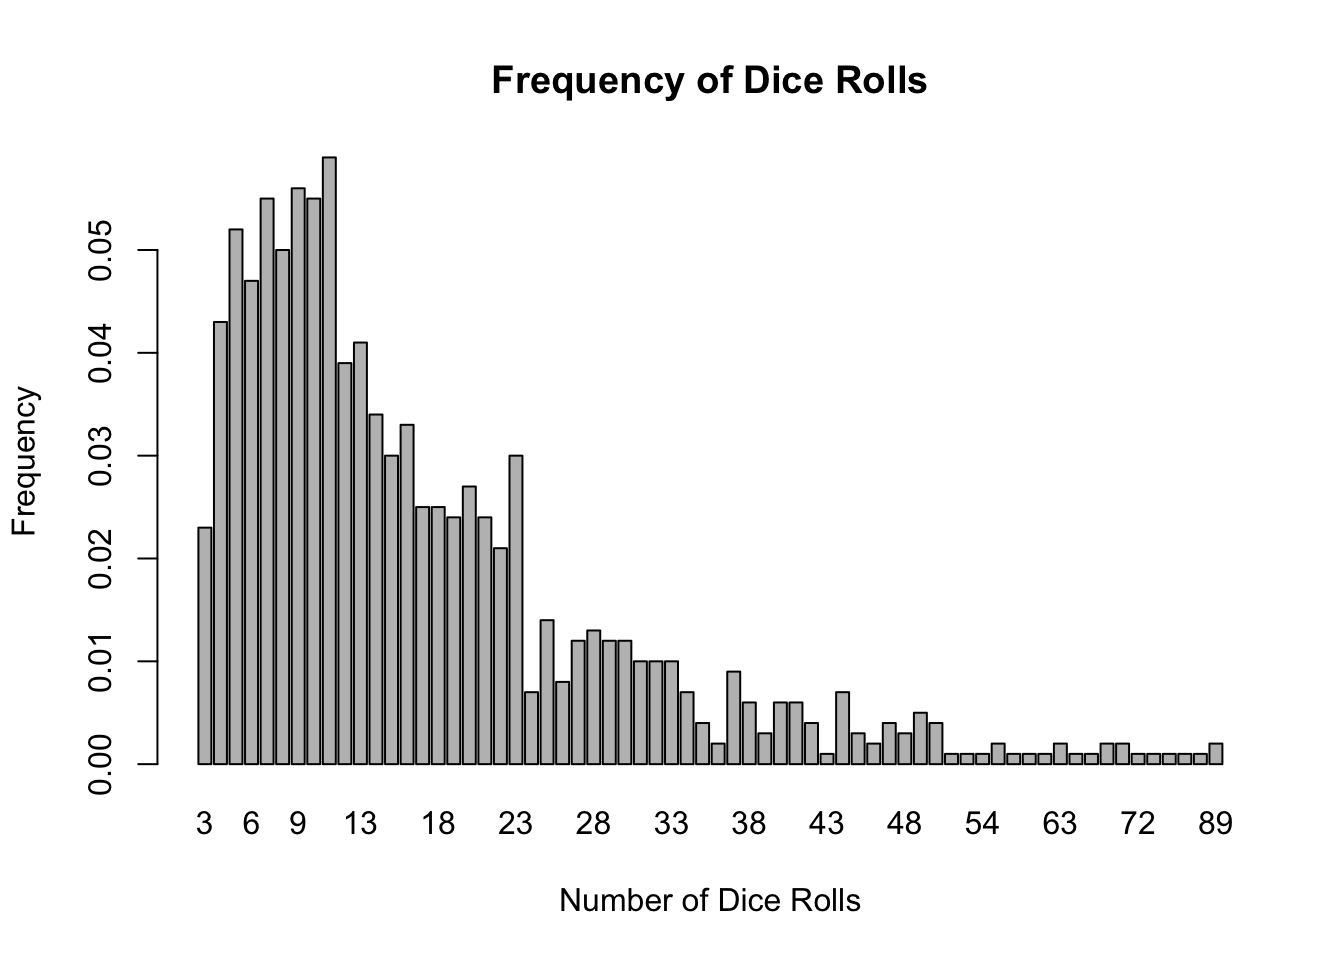
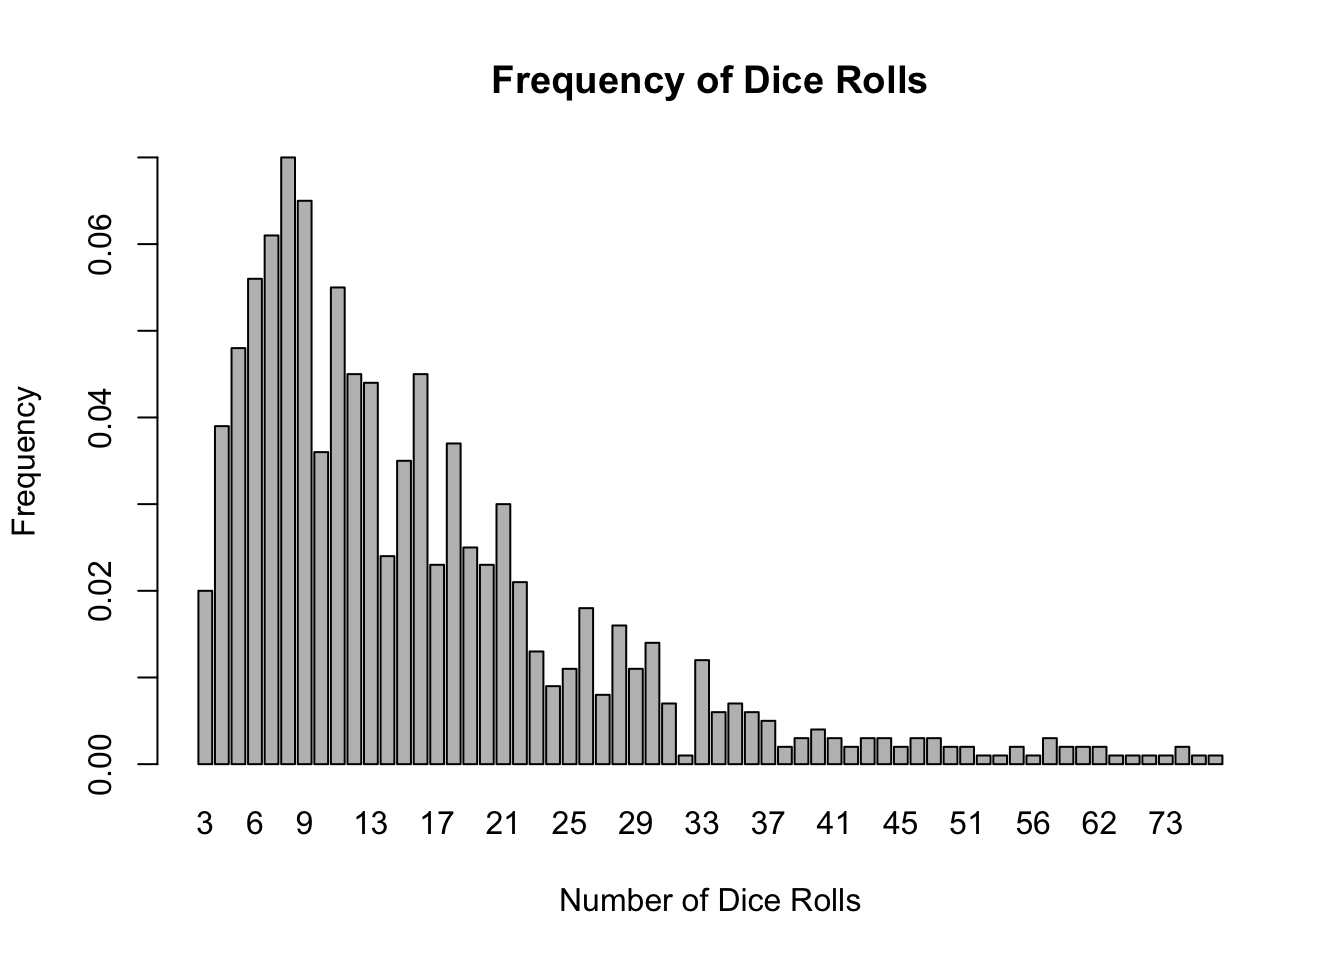
ee

diff --git a/about.html b/about.html
@@ -187,7 +187,7 @@ $(document).ready(function () {
   <a href="about.html">Chutes and Ladders</a>
 </li>
 <li>
-  <a href="index copy.html">FizzBuzz</a>
+  <a href="indexCopy.html">FizzBuzz</a>
 </li>
       </ul>
       <ul class="nav navbar-nav navbar-right">
@@ -255,9 +255,9 @@ for(i in 1:numberOfSimulations) {
   }
 
 barplot(table(xValues)/numberOfSimulations, xlab = &quot;Number of Dice Rolls&quot;, ylab = &quot;Frequency&quot;, ylim = c(0,max(table(xValues)/numberOfSimulations)), main = &quot;Frequency of Dice Rolls&quot;)</code></pre>
-<p><img src="about_files/figure-html/unnamed-chunk-12-1.png" width="672" /></p>
+<p><img src="about_files/figure-html/unnamed-chunk-1-1.png" width="672" /></p>
 <pre class="r"><code>print(paste(&quot;The average number of dice rolls for&quot;, numberOfSimulations, &quot;simulations is&quot;, round(mean(xValues)), &quot;.&quot;))</code></pre>
-<pre><code>## [1] &quot;The average number of dice rolls for 1000 simulations is 17 .&quot;</code></pre>
+<pre><code>## [1] &quot;The average number of dice rolls for 1000 simulations is 16 .&quot;</code></pre>
 
 
 

diff --git a/README.html b/README.html
@@ -187,7 +187,7 @@ $(document).ready(function () {
   <a href="about.html">Chutes and Ladders</a>
 </li>
 <li>
-  <a href="index copy.html">FizzBuzz</a>
+  <a href="indexCopy.html">FizzBuzz</a>
 </li>
       </ul>
       <ul class="nav navbar-nav navbar-right">

diff --git a/index.html b/index.html
@@ -187,7 +187,7 @@ $(document).ready(function () {
   <a href="about.html">Chutes and Ladders</a>
 </li>
 <li>
-  <a href="index copy.html">FizzBuzz</a>
+  <a href="indexCopy.html">FizzBuzz</a>
 </li>
       </ul>
       <ul class="nav navbar-nav navbar-right">

diff --git a/indexCopy.html b/indexCopy.html
@@ -187,7 +187,7 @@ $(document).ready(function () {
   <a href="about.html">Chutes and Ladders</a>
 </li>
 <li>
-  <a href="index copy.html">FizzBuzz</a>
+  <a href="indexCopy.html">FizzBuzz</a>
 </li>
       </ul>
       <ul class="nav navbar-nav navbar-right">
